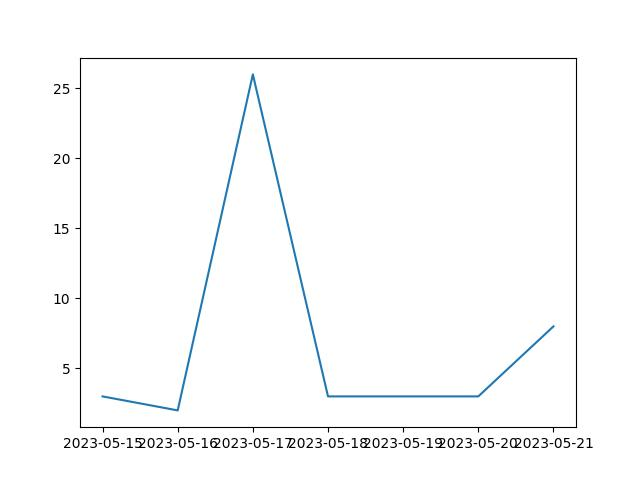
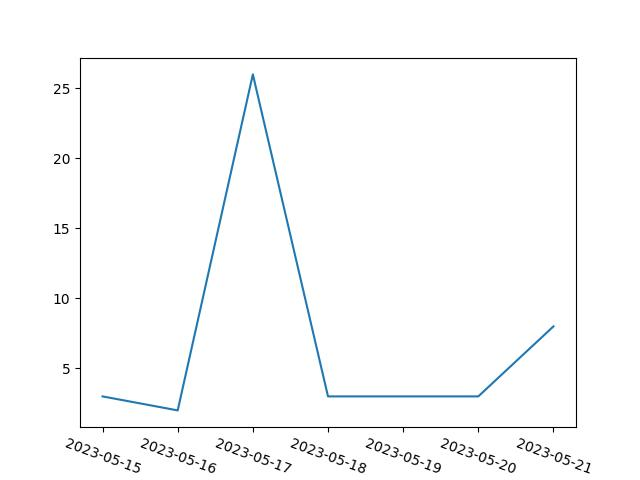
add age validation

Changed region(s): [[0.0938, 0.9062, 0.9375, 1.0], [0.9062, 0.9688, 0.9375, 1.0]]

diff --git a/Lab_4/lab_4/statistic/templates/statistic/tables.html b/Lab_4/lab_4/statistic/templates/statistic/tables.html
@@ -4,37 +4,63 @@
         <title>Login</title>
     </head>
     <body>
-        <style>
-            table {
-              border-collapse: collapse;
-            }
-          
-            table, th, td {
-              border: 1px solid black;
-              padding: 8px;
-            }
-          </style>
-        <table>
-            <thead>
+      Product table
+      <style>
+          table {
+            border-collapse: collapse;
+          }
+        
+          table, th, td {
+            border: 1px solid black;
+            padding: 8px;
+          }
+        </style>
+      <table>
+          <thead>
+            <tr>
+              <th>Place</th>
+              <th>Name</th>
+              <th>Purchase count</th>
+            </tr>
+          </thead>
+          <tbody>
+            {% for product in product_table %}
               <tr>
-                <th>Place</th>
-                <th>Name</th>
-                <th>Purchase count</th>
+                  <td>{{ forloop.counter }}</td>
+                  <td><a href="/statistic/tables/{{ product.id }}">{{ product.name }}</a></td>
+                  <td>{{ product.purchase_count }}</td>
               </tr>
-            </thead>
-            <tbody>
-              {% for product in product_table %}
-                <tr>
-                    <td>{{ forloop.counter }}</td>
-                    <td><a href="/statistic/tables/{{ product.id }}">{{ product.name }}</a></td>
-                    <td>{{ product.purchase_count }}</td>
-                </tr>
-              {% endfor %}
-            </tbody>
-          </table>
-          <br>
-          <form action="/statistic/" method="get">
-            <button type="submit">Back</button>
-          </form>
+            {% endfor %}
+          </tbody>
+        </table>
+        <br>
+        Pivot Table
+        <style>
+          table {
+            border-collapse: collapse;
+          }
+        
+          table, th, td {
+            border: 1px solid black;
+            padding: 8px;
+          }
+        </style>
+        <table>
+          <tbody>
+            {% for arr in pivot_table %}
+            <tr>
+              {%for cell in arr%}
+                
+                  <td>{{ cell }}</td>
+                
+              {%endfor%}
+          </tr>
+            {% endfor %}
+          </tbody>
+        </table>
+        <br>
+        <form action="/statistic/" method="get">
+          <button type="submit">Back</button>
+        </form>
     </body>
 </html>

diff --git a/Lab_4/lab_4/statistic/templates/statistic/predict.html b/Lab_4/lab_4/statistic/templates/statistic/predict.html
@@ -4,6 +4,8 @@
         <title>Predict</title>
     </head>
     <body>
+        Predict Sales
+        <br>
         <img src="/media/predict.jpg">
         <br>
         <form action="/statistic/tables" method="get">

diff --git a/Lab_4/lab_4/statistic/templates/statistic/statistic.html b/Lab_4/lab_4/statistic/templates/statistic/statistic.html
@@ -4,6 +4,8 @@
         <title>Login</title>
     </head>
     <body>
+        Sales chart
+        <br>
         <img src="/media/schedule.jpg">
         <br>
         <form action="/statistic/tables" method="get">

diff --git a/Lab_4/lab_4/statistic/views.py b/Lab_4/lab_4/statistic/views.py
@@ -3,13 +3,14 @@ from order.models import Order, OrderItem
 import matplotlib
 matplotlib.use('Agg')
 import matplotlib.pyplot as plt
-from store.models import Product
+from store.models import Product, Producer
 from .forms import StatisticForm
 import os
 from django.conf import settings
 import pandas
 import datetime
 from django.core.exceptions import PermissionDenied
+from typing import Dict
 
 def statistic_show(request) :
     if not request.user.is_superuser:
@@ -43,10 +44,52 @@ def tables_show(request):
     if not request.user.is_superuser:
         raise PermissionDenied("You do not have access to this page.")
     
-    arr = list(Product.objects.all())
-    arr.sort(key = lambda x:x.purchase_count, reverse=True)
+    #таблица товар - ордер
+    product_list = list(Product.objects.all())
+    product_list.sort(key = lambda x:x.purchase_count, reverse=True)
 
-    return render(request, 'statistic/tables.html', context={'product_table':arr})
+    #сводная таблица
+    ords = list(OrderItem.objects.all())
+
+    dates_arr = set()
+
+    for tmp in ords:
+        dates_arr.add(tmp.order.created.date().strftime("%Y-%m-%d"))
+
+    dates_arr = list(dates_arr)
+    out_dict:Dict[str,Dict[str, int]]
+    out_dict = dict()
+    total = dict()
+
+    for tmp in ords:
+        out_dict[tmp.product.producer.name] = dict()
+
+    for tmp in ords:
+        out_dict[tmp.product.producer.name][tmp.order.created.date().strftime("%Y-%m-%d")] = 0
+        total[tmp.order.created.date().strftime("%Y-%m-%d")] = 0
+
+    for tmp in ords:
+        out_dict[tmp.product.producer.name][tmp.order.created.date().strftime("%Y-%m-%d")] += tmp.quantity
+        total[tmp.order.created.date().strftime("%Y-%m-%d")] += tmp.quantity
+
+    out_dict['total'] = total
+    print(out_dict)
+    row = list()
+    row.append('Producer')
+    for tmp in total:
+        row.append(tmp)
+
+    out_list = list()
+    out_list.append(row)
+    for tmp in out_dict:
+        row = list()
+        row.append(tmp)
+        for tmp1 in out_dict[tmp]:
+            row.append(out_dict[tmp][tmp1])
+
+        out_list.append(row)
+
+    return render(request, 'statistic/tables.html', context={'product_table' : product_list, 'pivot_table' : out_list})
 
 def predict_show(request, id):
     if not request.user.is_superuser:
@@ -111,6 +154,7 @@ def predict_show(request, id):
         y_list.append(dict_for_plot[tmp])
 
     plt.plot(x_list,y_list)
+    plt.xticks(rotation=340)
     plt.savefig(os.path.join(settings.MEDIA_ROOT, 'predict.jpg'), format='jpg')
     plt.close()
 

diff --git a/Lab_4/lab_4/login/forms.py b/Lab_4/lab_4/login/forms.py
@@ -3,6 +3,17 @@ from django import forms
 from django.contrib.auth.forms import UserCreationForm
 from .models import CustomUser
 from django.core.validators import RegexValidator
+from django.core.exceptions import ValidationError
+from datetime import date, datetime
+
+def validate_age(value):
+    today = date.today()
+    age = today.year - value.year - int((today.month, today.day) < (value.month, value.day))
+    print(today.year)
+    print(value.year)
+    print(age)
+    if int(age) < 18:
+        raise ValidationError("Вы должны быть старше 18 лет.")
 
 class UserCreateForm(UserCreationForm):
     email = forms.EmailField(required=True)
@@ -10,7 +21,7 @@ class UserCreateForm(UserCreationForm):
                                 help_text='Enter first name')
     last_name = forms.CharField(max_length=200,
                                 help_text='Enter last name')
-    date_of_birth = forms.DateField()
+    date_of_birth = forms.DateField(validators=[validate_age])
     phone_number = forms.CharField(max_length=50,
                                     help_text='Enter phone number',
                                     validators=[RegexValidator(
@@ -38,4 +49,11 @@ class UserCreateForm(UserCreationForm):
             user.save()
         
         return user
+    
+    '''def clean_date_of_birth(self):
+        date_of_birth = self.cleaned_data['date_of_birth']
+
+        if not validate_age(date_of_birth):
+            raise forms.ValidationError("Вы должны быть старше 18 лет.")
+        return date_of_birth'''
     
